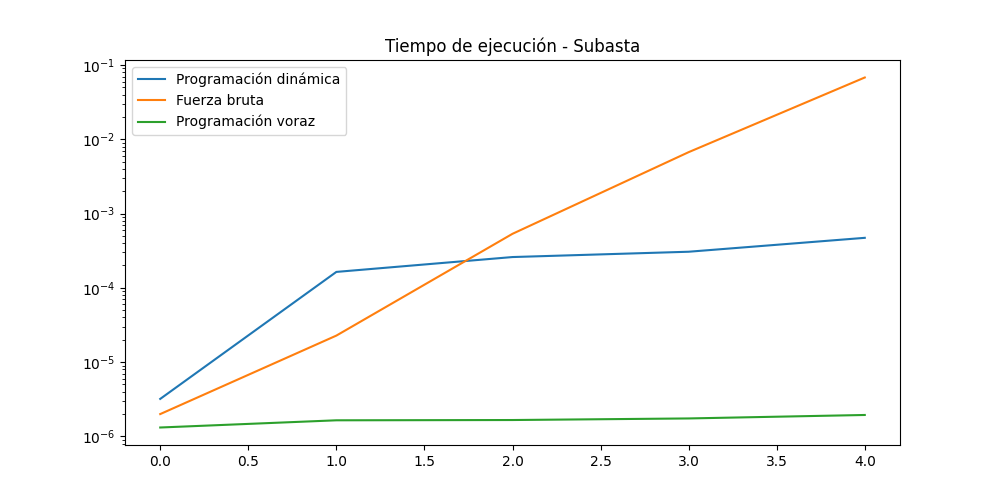
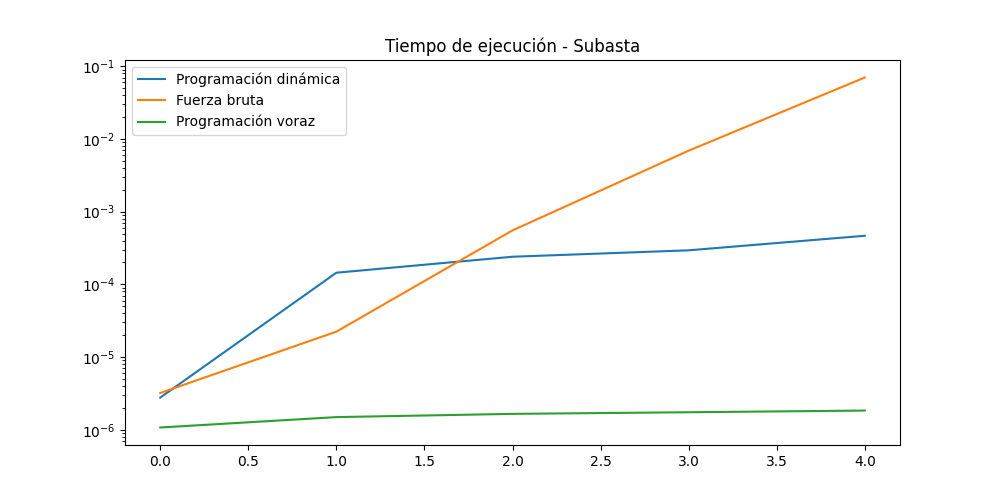
nuevos_cambios

diff --git a/tiempo_ejecucion.py b/tiempo_ejecucion.py
@@ -9,7 +9,7 @@ from Subasta_publica.dinamica import subasta_dp
 from Subasta_publica.voraz import subasta_voraz
 from Subasta_publica.fuerza_bruta import subasta_fuerza_bruta
 
-def tiempo_ejecucion(funcion, args, num_iteraciones=100):
+def tiempo_ejecucion(funcion, args, num_iteraciones=500):
     array = np.zeros(num_iteraciones)
     for i in range(num_iteraciones):
         inicio = time.time()
@@ -28,24 +28,27 @@ def graficar (tiempos, nombre_grafica):
     plt.yscale("log")
     plt.savefig('./graficas/' + nombre_grafica.replace(' ', '_').lower() + ".png")
 
-def guardar_tiempos(tiempos, l_archivos):
+def guardar_archivos(lista, nombres_archivos, ruta="./tiempos/"):
     
-    for i in range(len(tiempos)):
-        tiempo = tiempos[i]
-        archivo = l_archivos[i].lower() + ".txt"
-        with open("./tiempos/" + archivo, "w") as f:
+    for i in range(len(lista)):
+        tiempo = lista[i]
+        archivo = nombres_archivos[i].lower() + ".txt"
+        with open(ruta + archivo, "w") as f:
             for t in tiempo:
                 f.write(f"{t}\n")
+
+
 
 def tiempos_terminal_inteligente():
     casos = [
         ("Ay", "Ya"),
         ("Pal", "Pup"),
         ("Mora", "More"),
-        ("Agua", "Vaca"),
+        ("Aguas", "Vacas"),
         ("Destino", "Caminos"),
     ]
 
+    costos_teoricos = [[], [], []]
     tiempos = [[], [], []]
 
     for caso in casos:
@@ -56,9 +59,15 @@ def tiempos_terminal_inteligente():
         tiempos[0].append(result_dinamica)
         tiempos[1].append(result_fuerza_bruta)
         tiempos[2].append(result_voraz)
+                          
+        m, n = len(caso[0]), len(caso[1])
+        costos_teoricos[0].append(m * n)
+        costos_teoricos[1].append(4**min(n,m))
+        costos_teoricos[2].append(m + n)
 
     graficar(tiempos, "Terminal Inteligente")
-    guardar_tiempos(tiempos, ["Terminal_dinamica", "Terminal_fuerza_bruta", "Terminal_voraz"])
+    guardar_archivos(tiempos, ["Terminal_dinamica", "Terminal_fuerza_bruta", "Terminal_voraz"])
+    guardar_archivos(costos_teoricos, ["Terminal_teorico_dinamica", "Terminal_teorico_fuerza_bruta", "Terminal_teorico_voraz"])
 
 def tiempo_subasta():
     casos = [
@@ -83,7 +92,7 @@ def tiempo_subasta():
         
 
     graficar(tiempos, "Subasta")
-    guardar_tiempos(tiempos, ["Subasta_dinamica", "Subasta_voraz", "Subasta_fuerza_bruta"])
+    guardar_archivos(tiempos, ["Subasta_dinamica", "Subasta_voraz", "Subasta_fuerza_bruta"])
 
 if __name__ == "__main__":
     tiempos_terminal_inteligente()

diff --git a/grafica_compara.py b/grafica_compara.py
@@ -1,0 +1,56 @@
+import numpy as np
+from scipy import interpolate
+import matplotlib.pyplot as plt
+
+
+def leer_archivo_array(nombre_archivo, ruta="./tiempos/"):
+    with open(ruta + nombre_archivo + '.txt', 'r') as f:
+        lineas = f.readlines()
+        arr = np.array([float(l) for l in lineas])
+    return arr
+
+def normalizar(arr):
+    return (arr - np.min(arr)) / (np.max(arr) - np.min(arr))
+
+def graficar_interpolacion(x, y, nombre_grafica="Interpolación"):
+    # Normalizar los datos
+    x_norm = normalizar(x)
+    y_norm = normalizar(y)
+
+    # Crear el objeto de interpolación lineal
+    f_linear = interpolate.interp1d(x_norm, y_norm)
+
+    # Crear el objeto de interpolación cúbica (si prefieres una curva suave)
+    f_cubic = interpolate.interp1d(x_norm, y_norm, kind='cubic')
+
+    # Nuevos puntos para estimar los valores (interpolación)
+    x_new = np.linspace(min(x_norm), max(x_norm), 100)  # Ajustamos el rango de x_new
+    y_linear = f_linear(x_new)
+    y_cubic = f_cubic(x_new)
+
+    # Graficar los puntos originales y las líneas de tendencia
+    plt.plot(x_norm, y_norm, 'o', label='Puntos originales')
+    plt.plot(x_new, y_linear, '-', label='Interpolación lineal')
+    plt.plot(x_new, y_cubic, '--', label='Interpolación cúbica')
+    plt.legend()
+    plt.savefig('./graficas/' + nombre_grafica + '.png')
+    plt.close()
+
+# Ejecutar para cada conjunto de datos
+
+
+
+def graficar_terminal_interpolacion():
+
+    ruta_datos = [
+        ('terminal_teorico_dinamica', 'terminal_dinamica' , 'interpolacion_terminal_dinamica'),
+        ('terminal_teorico_fuerza_bruta', 'terminal_fuerza_bruta', 'interpolacion_terminal_fuerza_bruta'),
+        ('terminal_teorico_voraz', 'terminal_voraz', 'interpolacion_terminal_voraz'),
+    ]
+    for ruta in ruta_datos:
+        costos_teoricos = leer_archivo_array(ruta[0])
+        tiempos = leer_archivo_array(ruta[1])
+        graficar_interpolacion(costos_teoricos, tiempos, nombre_grafica=ruta[2])
+
+def graficar_subasta_interpolacion():
+    pass
